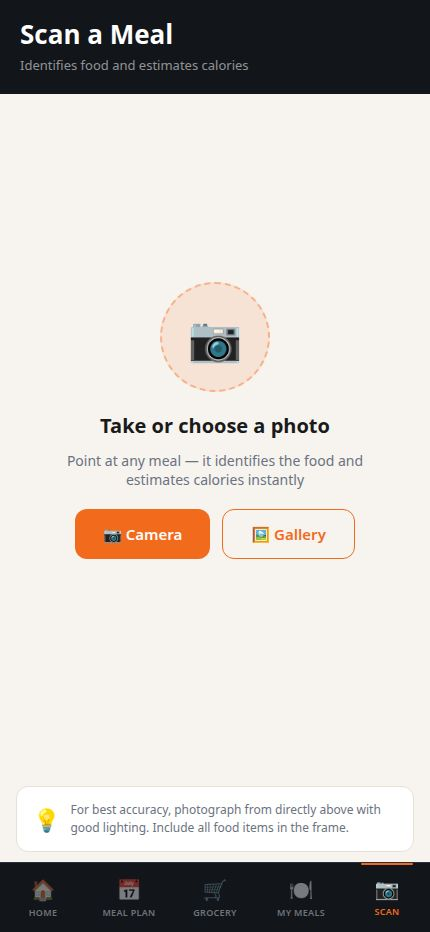
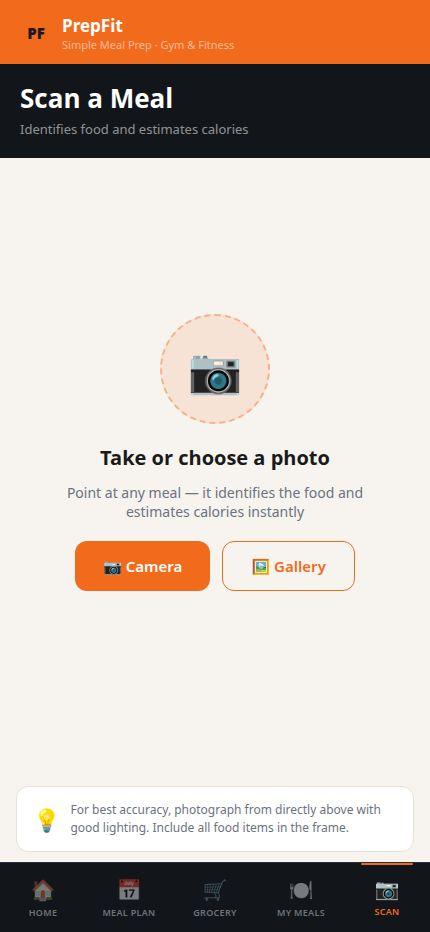
Add consistent branding and orange accent bar to all app screens
Adds a consistent orange AppBar with PrepFit branding to all app screens in `app-screens.html`, replacing placeholder headers and updating screen-specific titles to global branding.

Replit-Commit-Author: Agent
Replit-Commit-Session-Id: 366c8a42-eaa5-40fb-9545-b218c470b2f4
Replit-Commit-Checkpoint-Type: full_checkpoint
Replit-Commit-Event-Id: d35a6f6b-17be-4c08-b36a-7cb8e7b07fcb
Replit-Commit-Screenshot-Url: https://storage.googleapis.com/screenshot-production-us-central1/840360d6-55f0-4f6a-9af5-ecb5804a7758/366c8a42-eaa5-40fb-9545-b218c470b2f4/cPiktIm
Replit-Helium-Checkpoint-Created: true

Changed region(s): [[0.0, 0.0, 1.0, 0.1867], [0.1512, 0.28, 0.8465, 0.6534]]

diff --git a/artifacts/meal-prep/public/app-screens.html b/artifacts/meal-prep/public/app-screens.html
@@ -30,9 +30,9 @@
   .screen { display: none; flex-direction: column; min-height: 932px; background: var(--bg); position: relative; }
   .screen.active { display: flex; }
 
-  /* ── AppBar (always dark, matches the site's dark header) ── */
+  /* ── AppBar (orange — matches real app) ── */
   .appbar {
-    background: var(--sidebar);
+    background: var(--primary);
     padding: 14px 20px 12px;
     display: flex; align-items: center; justify-content: space-between;
   }
@@ -597,6 +597,12 @@
      SCREEN 1 — HOME / DASHBOARD
 ════════════════════════════════════════════ -->
 <div class="screen" id="s1">
+  <div class="appbar">
+    <div class="appbar-brand">
+      <div class="appbar-logo">PF</div>
+      <div><div class="appbar-name">PrepFit</div><div class="appbar-sub">Simple Meal Prep · Gym &amp; Fitness</div></div>
+    </div>
+  </div>
   <div class="hero">
     <div class="hero-top">
       <div class="hero-date">FRIDAY, JUNE 13</div>
@@ -700,7 +706,7 @@
   <div class="appbar">
     <div class="appbar-brand">
       <div class="appbar-logo">PF</div>
-      <div><div class="appbar-name">Meal Planner</div><div class="appbar-sub">Build your weekly plan</div></div>
+      <div><div class="appbar-name">PrepFit</div><div class="appbar-sub">Simple Meal Prep · Gym &amp; Fitness</div></div>
     </div>
   </div>
 
@@ -821,6 +827,12 @@
      SCREEN 3 — GROCERY LIST
 ════════════════════════════════════════════ -->
 <div class="screen" id="s3">
+  <div class="appbar">
+    <div class="appbar-brand">
+      <div class="appbar-logo">PF</div>
+      <div><div class="appbar-name">PrepFit</div><div class="appbar-sub">Simple Meal Prep · Gym &amp; Fitness</div></div>
+    </div>
+  </div>
   <div class="page-header">
     <div class="page-title">Grocery List</div>
     <div class="page-sub">Summer Shred Plan · 36 items</div>
@@ -947,6 +959,12 @@
      SCREEN 4 — MY MEALS
 ════════════════════════════════════════════ -->
 <div class="screen" id="s4">
+  <div class="appbar">
+    <div class="appbar-brand">
+      <div class="appbar-logo">PF</div>
+      <div><div class="appbar-name">PrepFit</div><div class="appbar-sub">Simple Meal Prep · Gym &amp; Fitness</div></div>
+    </div>
+  </div>
   <div class="page-header">
     <div class="page-title">My Meals</div>
     <div class="page-sub">4 meals scanned</div>
@@ -1022,6 +1040,12 @@
      SCREEN 5 — SCAN PHOTO
 ════════════════════════════════════════════ -->
 <div class="screen" id="s5">
+  <div class="appbar">
+    <div class="appbar-brand">
+      <div class="appbar-logo">PF</div>
+      <div><div class="appbar-name">PrepFit</div><div class="appbar-sub">Simple Meal Prep · Gym &amp; Fitness</div></div>
+    </div>
+  </div>
   <div class="page-header">
     <div class="page-title">Scan a Meal</div>
     <div class="page-sub">Identifies food and estimates calories</div>
@@ -1062,6 +1086,12 @@
      SCREEN 6 — WEIGHT TRACKER
 ════════════════════════════════════════════ -->
 <div class="screen" id="s6">
+  <div class="appbar">
+    <div class="appbar-brand">
+      <div class="appbar-logo">PF</div>
+      <div><div class="appbar-name">PrepFit</div><div class="appbar-sub">Simple Meal Prep · Gym &amp; Fitness</div></div>
+    </div>
+  </div>
   <div class="page-header">
     <div class="page-title">Weight Tracker</div>
     <div class="page-sub">Track your body weight over time</div>
@@ -1160,6 +1190,12 @@
      SCREEN 7 — WATER TRACKER
 ════════════════════════════════════════════ -->
 <div class="screen" id="s7">
+  <div class="appbar">
+    <div class="appbar-brand">
+      <div class="appbar-logo">PF</div>
+      <div><div class="appbar-name">PrepFit</div><div class="appbar-sub">Simple Meal Prep · Gym &amp; Fitness</div></div>
+    </div>
+  </div>
   <div class="page-header">
     <div class="page-title">Water Tracker</div>
     <div class="page-sub">Stay hydrated — 8 glasses daily</div>
@@ -1227,6 +1263,12 @@
      SCREEN 8 — SAVED PLANS
 ════════════════════════════════════════════ -->
 <div class="screen" id="s8">
+  <div class="appbar">
+    <div class="appbar-brand">
+      <div class="appbar-logo">PF</div>
+      <div><div class="appbar-name">PrepFit</div><div class="appbar-sub">Simple Meal Prep · Gym &amp; Fitness</div></div>
+    </div>
+  </div>
   <div class="page-header">
     <div class="page-title">Saved Plans</div>
     <div class="page-sub">3 meal plans saved</div>
@@ -1293,6 +1335,12 @@
      SCREEN 9 — USER GUIDE
 ════════════════════════════════════════════ -->
 <div class="screen" id="s9">
+  <div class="appbar">
+    <div class="appbar-brand">
+      <div class="appbar-logo">PF</div>
+      <div><div class="appbar-name">PrepFit</div><div class="appbar-sub">Simple Meal Prep · Gym &amp; Fitness</div></div>
+    </div>
+  </div>
   <div class="scroll" style="padding-bottom:80px">
     <div class="guide-hero">
       <div class="guide-hero-top">
